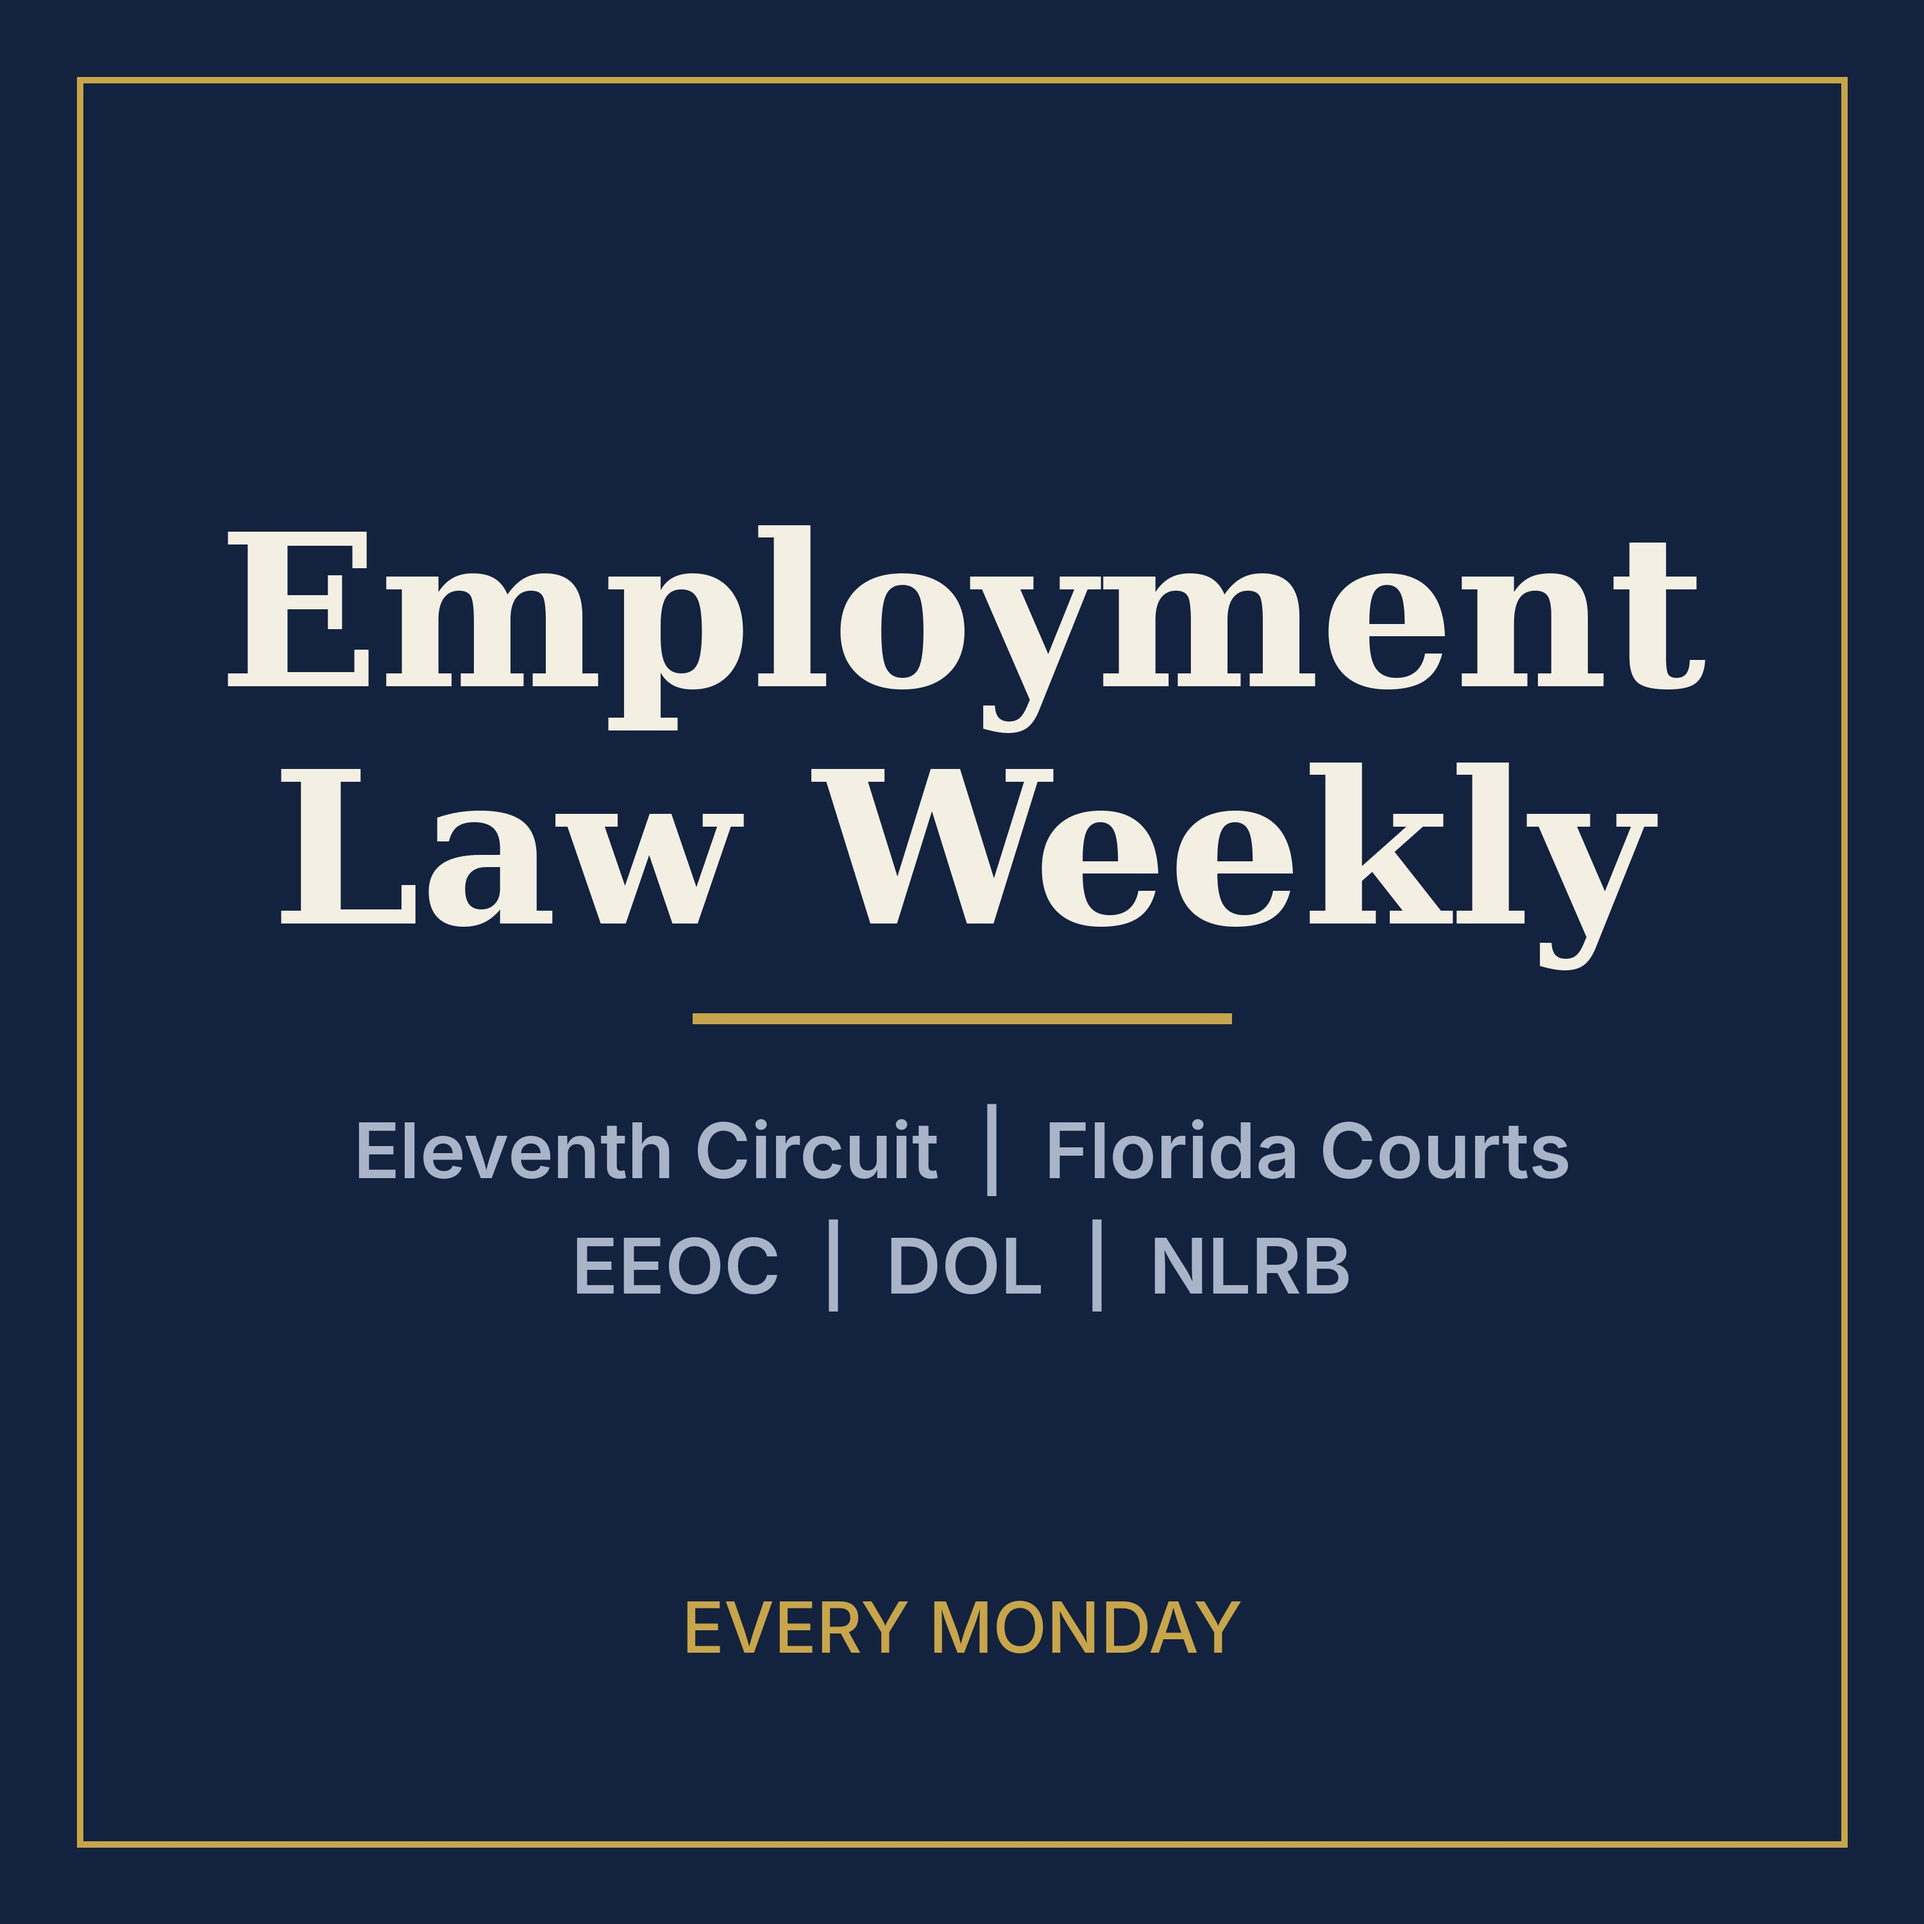
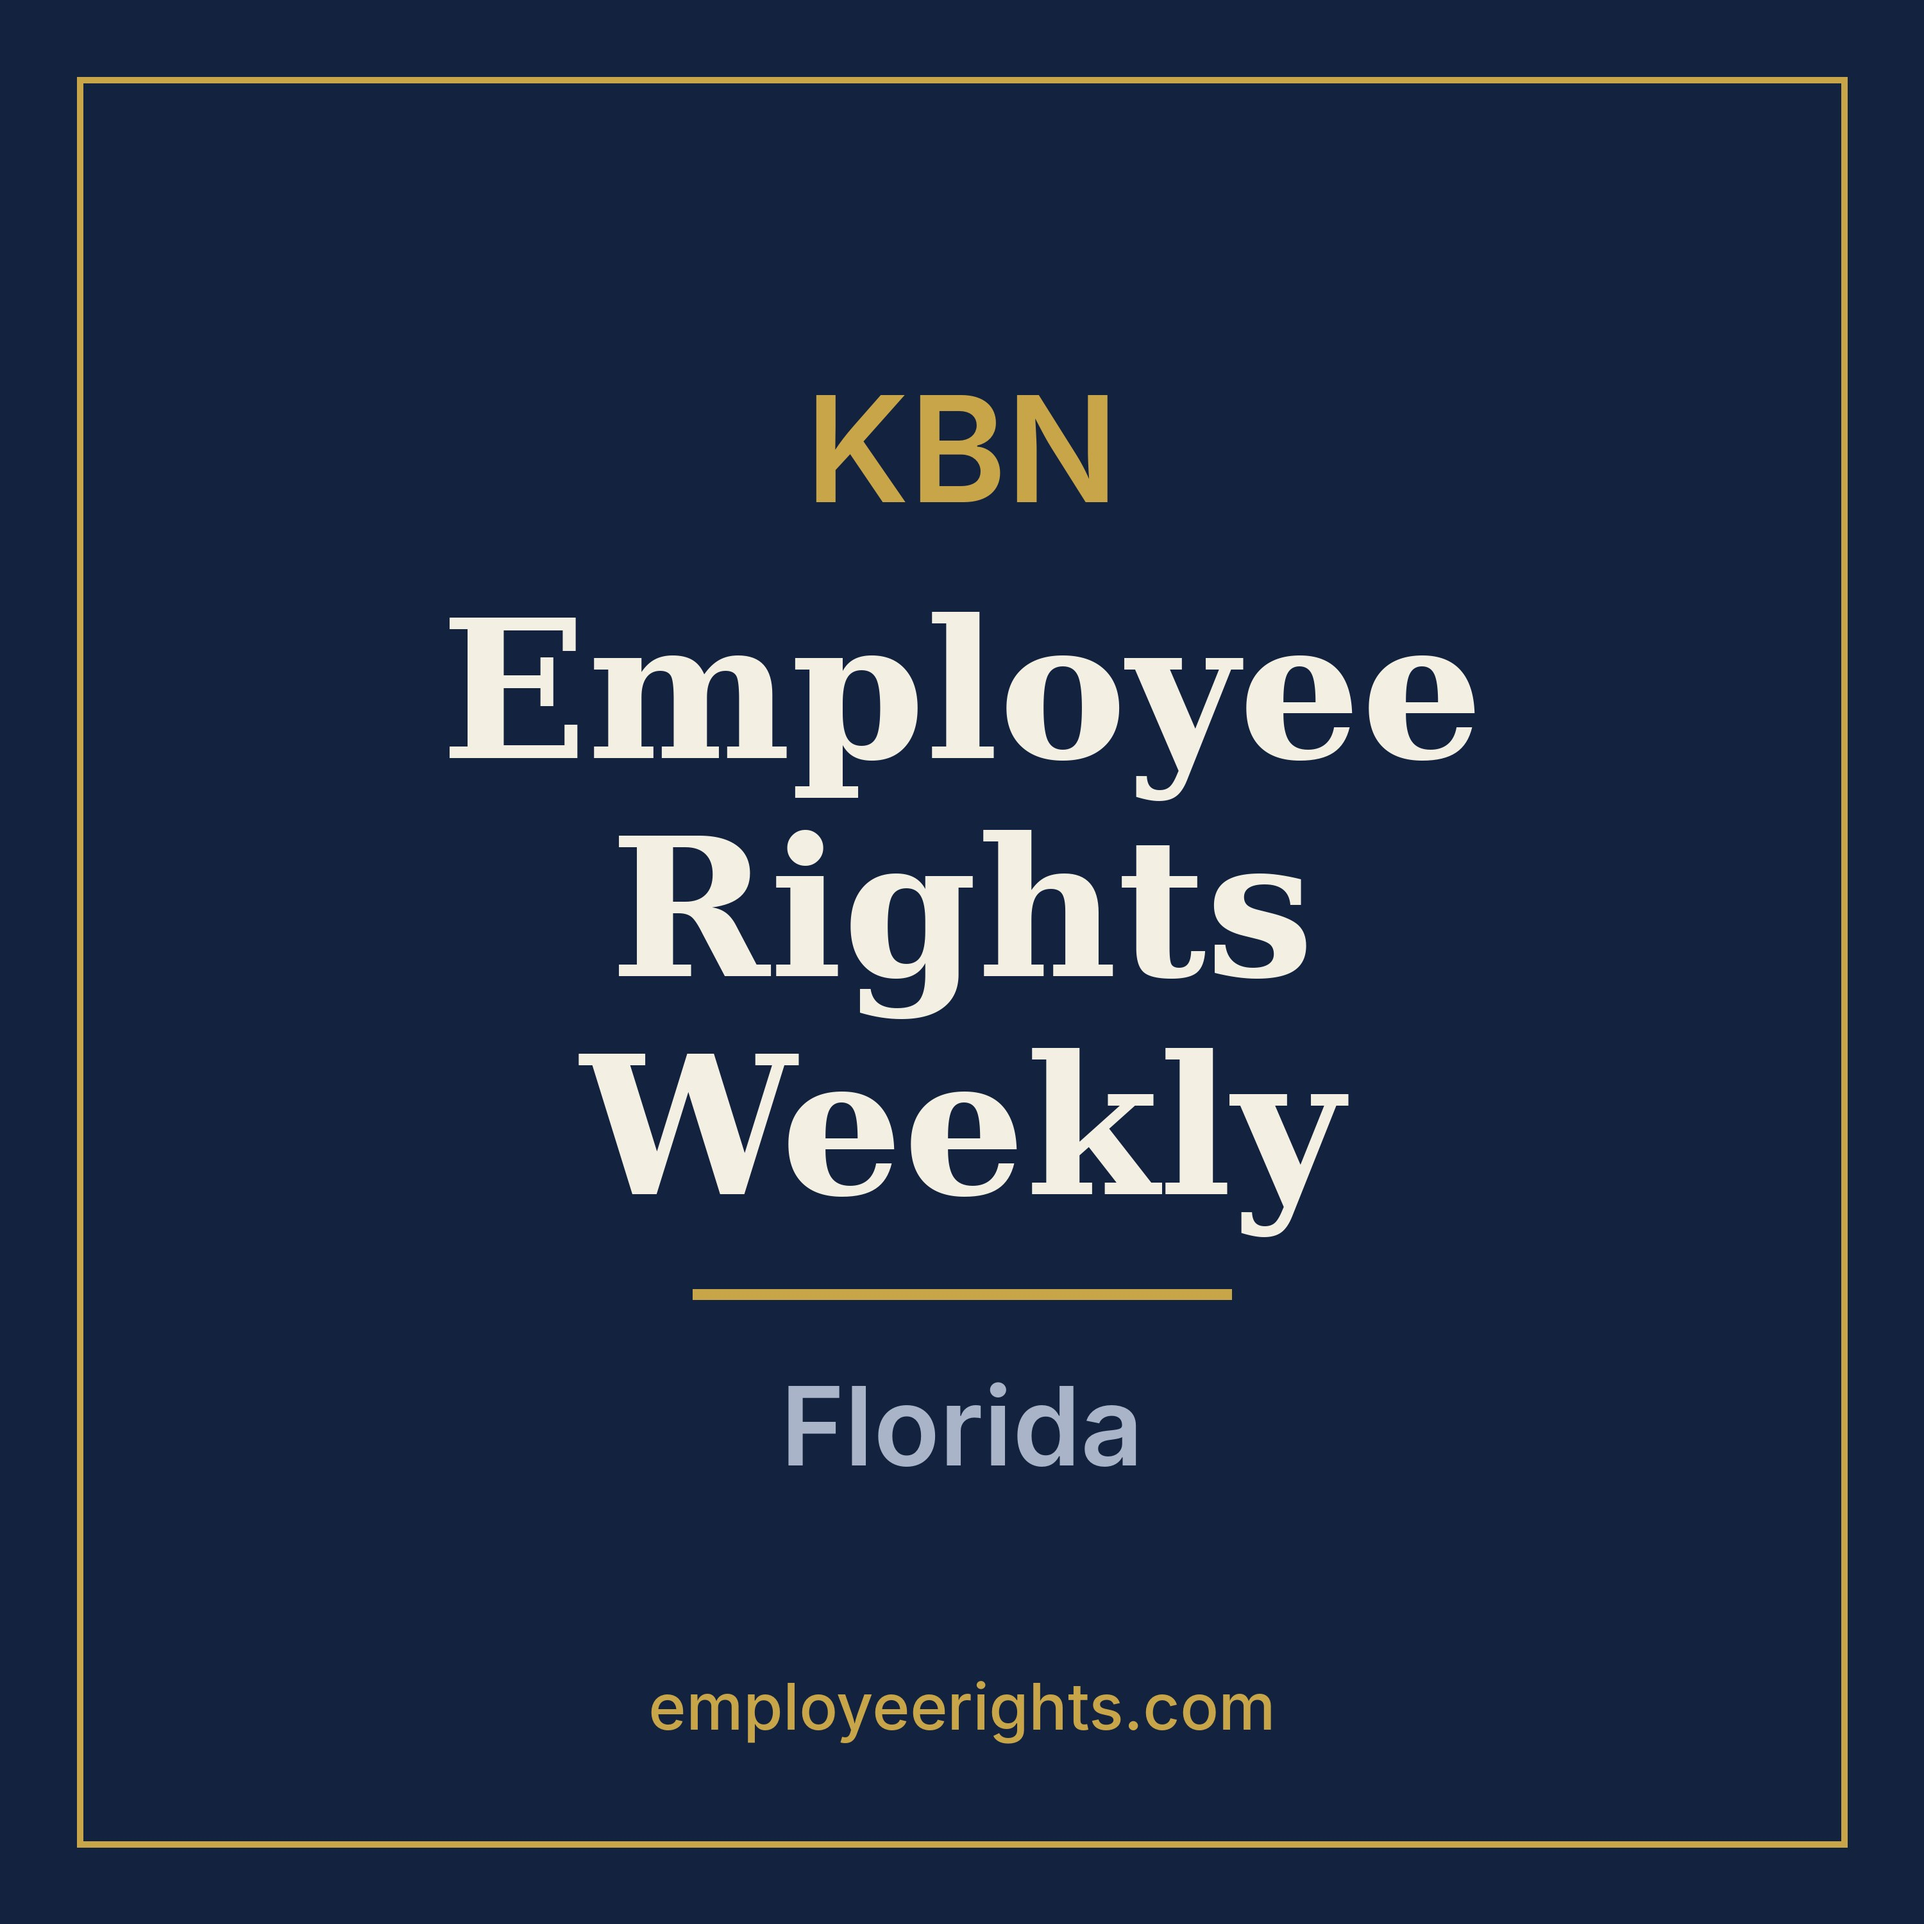
Rename show to KBN Florida Employee Rights Weekly and update cover art

Changed region(s): [[0.124, 0.186, 0.899, 0.682], [0.341, 0.806, 0.651, 0.899], [0.403, 0.713, 0.589, 0.775]]

diff --git a/index.html b/index.html
@@ -2,16 +2,16 @@
 <html lang="en"><head><meta charset="utf-8">
 <meta name="viewport" content="width=device-width, initial-scale=1">
 <meta name="robots" content="noindex, nofollow">
-<title>Employment Law Weekly</title>
-<link rel="alternate" type="application/rss+xml" title="Employment Law Weekly" href="feed.xml">
+<title>KBN Florida Employee Rights Weekly</title>
+<link rel="alternate" type="application/rss+xml" title="KBN Florida Employee Rights Weekly" href="feed.xml">
 <style>
 body{font-family:-apple-system,Segoe UI,Roboto,sans-serif;max-width:760px;margin:2rem auto;padding:0 1rem;color:#1b2333;line-height:1.5}
 header{display:flex;gap:1.25rem;align-items:center} header img{width:140px;height:140px;border-radius:8px}
 ul{list-style:none;padding:0} li{border-top:1px solid #dde2ea;padding:1rem 0} audio{width:100%;margin:.5rem 0}
 code{background:#eef1f6;padding:.15rem .35rem;border-radius:4px;word-break:break-all}
 </style></head><body>
-<header><img src="cover.jpg" alt=""><div><h1>Employment Law Weekly</h1>
-<p>A weekly briefing for employee-side lawyers on new Eleventh Circuit and Florida appellate employment decisions, plus new EEOC, DOL and NLRB guidance. Prepared with AI for private use. Not legal advice. Check every source before relying on it.</p></div></header>
+<header><img src="cover.jpg" alt=""><div><h1>KBN Florida Employee Rights Weekly</h1>
+<p>Employee Rights Weekly from Kwall Barack Nadeau (employeerights.com). Each Monday: new Eleventh Circuit and Florida appellate employment decisions, plus new EEOC, DOL and NLRB guidance. Created with AI. Not legal advice. Check every source before relying on it.</p></div></header>
 <p>Podcast feed: <code>https://law4employees.github.io/Podcast/feed.xml</code></p>
 <ul>
 <li><strong>Welcome to Employment Law Weekly</strong> (00:00:38)<br><audio controls preload="none" src="episodes/Employment-Law-Weekly-2026-11-21.mp3"></audio><details><summary>Show notes</summary><p>Welcome to Employment Law Weekly. Every Monday: new Eleventh Circuit and Florida appellate employment decisions, plus new EEOC, DOL and NLRB guidance, with links in the show notes.</p><p>Prepared with AI for private use. Not legal advice. Check every source before relying on it.</p>

diff --git a/publish.py b/publish.py
@@ -1,5 +1,5 @@
 #!/usr/bin/env python3
-"""Add an episode to the Employment Law Weekly feed and rebuild feed.xml and index.html.
+"""Add an episode to the KBN Florida Employee Rights Weekly feed and rebuild feed.xml and index.html.
 
 Usage:
   python3 publish.py --mp3 /path/to/episode.mp3 --date 2026-11-23 \
@@ -20,10 +20,10 @@ DATA = os.path.join(ROOT, "episodes.json")
 EP_DIR = os.path.join(ROOT, "episodes")
 MAX_EPISODES = 26
 
-SHOW_TITLE = "Employment Law Weekly"
-SHOW_DESC = ("A weekly briefing for employee-side lawyers on new Eleventh Circuit and Florida "
-             "appellate employment decisions, plus new EEOC, DOL and NLRB guidance. "
-             "Prepared with AI for private use. Not legal advice. Check every source before relying on it.")
+SHOW_TITLE = "KBN Florida Employee Rights Weekly"
+SHOW_DESC = ("Employee Rights Weekly from Kwall Barack Nadeau (employeerights.com). Each Monday: new Eleventh Circuit "
+             "and Florida appellate employment decisions, plus new EEOC, DOL and NLRB guidance. "
+             "Created with AI. Not legal advice. Check every source before relying on it.")
 
 
 def duration_seconds(path):
@@ -75,7 +75,7 @@ def build(eps):
     <description>{html.escape(SHOW_DESC)}</description>
     <language>en-us</language>
     <lastBuildDate>{now}</lastBuildDate>
-    <itunes:author>Law4Employees</itunes:author>
+    <itunes:author>Kwall Barack Nadeau</itunes:author>
     <itunes:summary>{html.escape(SHOW_DESC)}</itunes:summary>
     <itunes:image href="{BASE}cover.jpg"/>
     <image><url>{BASE}cover.jpg</url><title>{SHOW_TITLE}</title><link>{BASE}</link></image>

diff --git a/README.md b/README.md
@@ -1,4 +1,4 @@
-# Employment Law Weekly
+# KBN Florida Employee Rights Weekly
 
 A private weekly podcast feed: new Eleventh Circuit and Florida appellate employment decisions, plus new EEOC, DOL and NLRB guidance.
 
